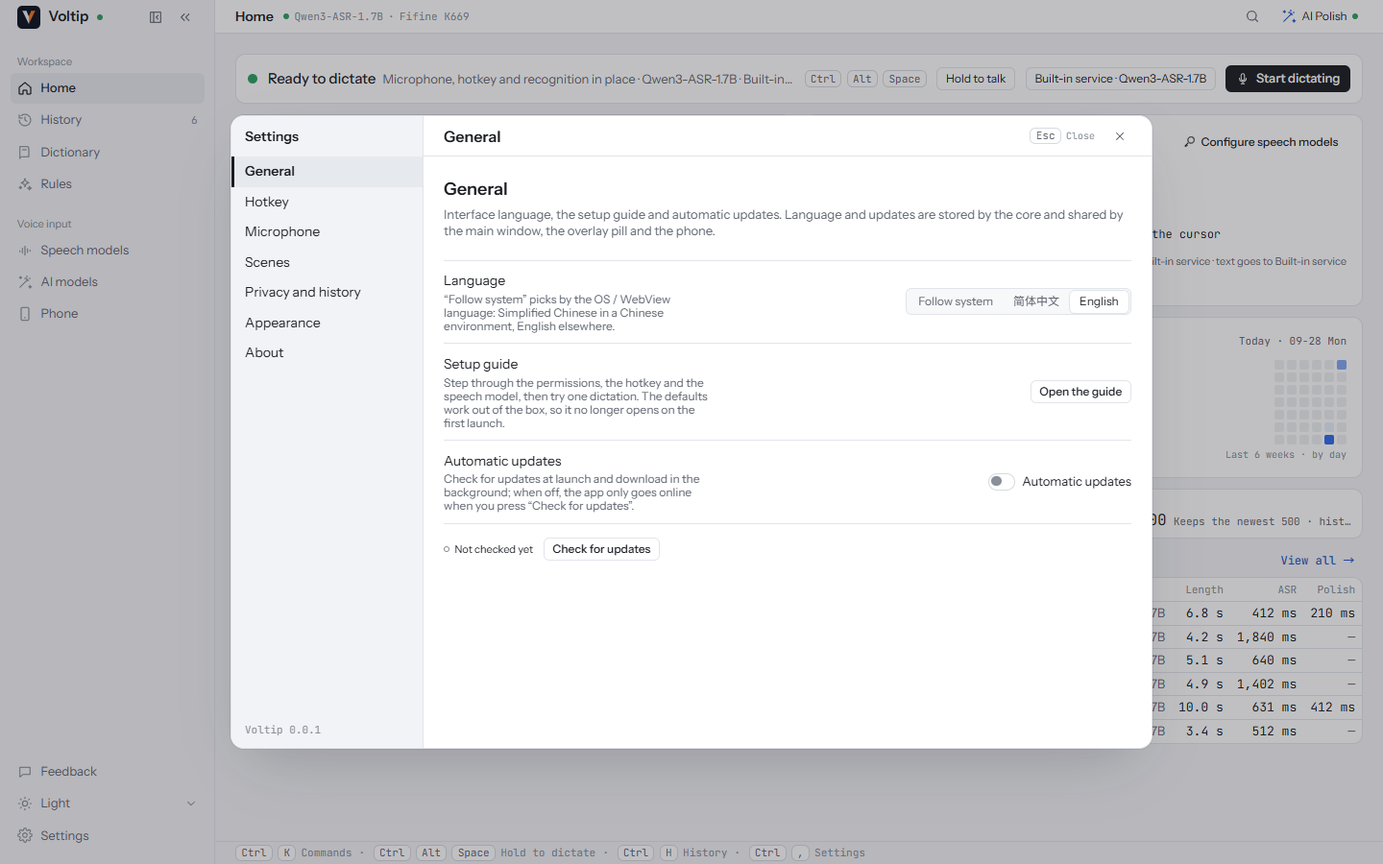
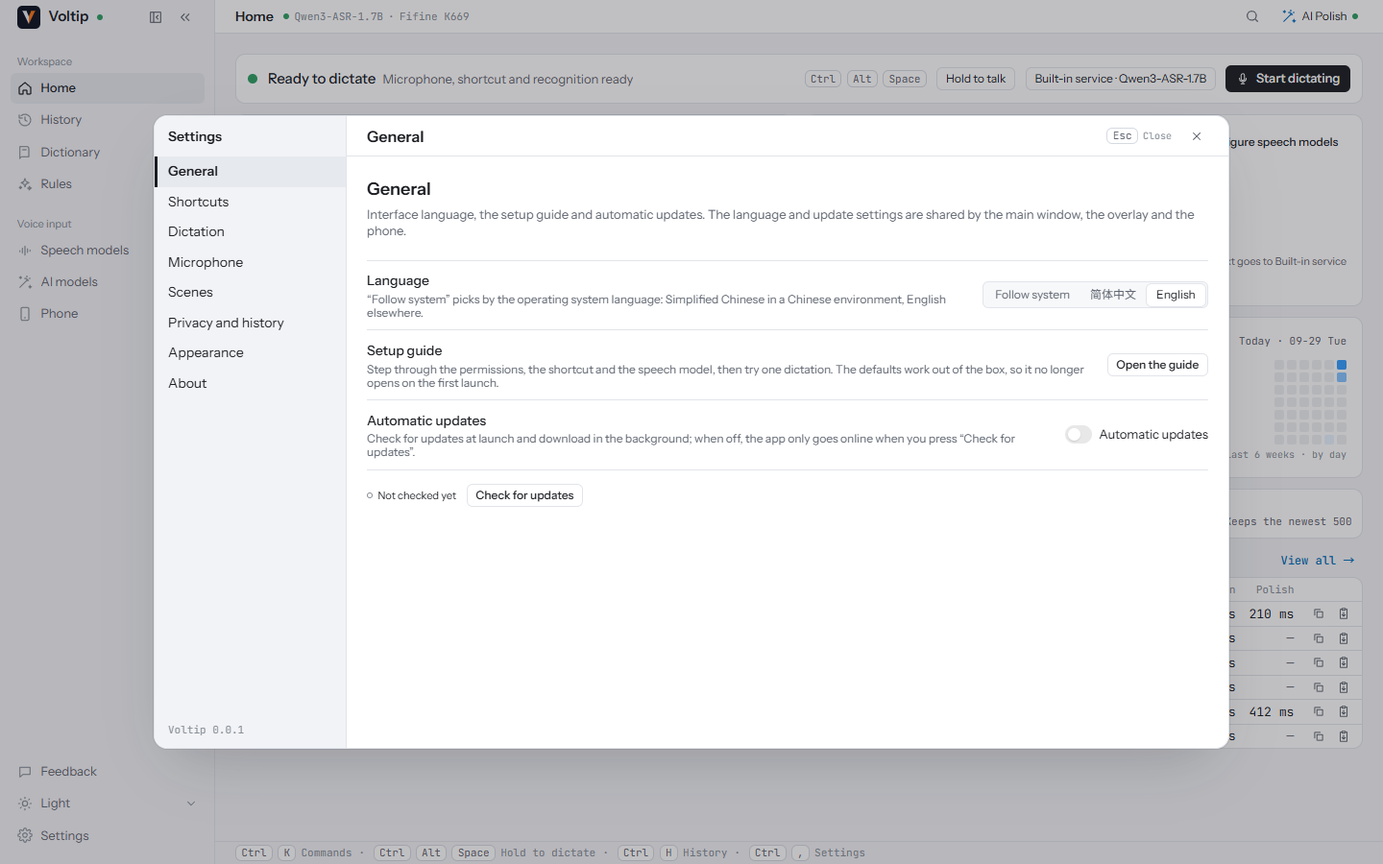
docs: retake the desktop screenshots after the copy and colour changes
All fifteen browser screenshots are taken again at 1440 × 900 (MockBackend),
plus Settings › Dictation, a history entry that stayed on the clipboard,
and one sheet of the four themes with the default and the green accent.

Taking them turned up three small things, fixed here:

- a model card's subtitle ("qwen3-asr-0.6b · transcribe.cpp") and an
  installed model's path were cut with no way to read them; both carry a
  title now;
- the web preview's mock kept 「模型未下载」 on the on-device card after the
  model finished downloading, because it re-reported the engines only
  when readiness changed; the core's rescan re-reports every provider's
  status, and the mock now does the same;
- three Chinese strings were still colloquial (「说说哪里不好用」,
  「换一个范围试试」, 「试试 主题 / …」); the copy guard now bans 说说、试试
  and 看看.

diff --git a/packages/shared/src/mock-backend.test.ts b/packages/shared/src/mock-backend.test.ts
@@ -1144,6 +1144,25 @@ describe("MockBackend local models (docs/dictation.md §10)", () => {
     backend.destroy();
   });
 
+  it("regression: installing the on-device model clears 模型未下载 on its card while the built-in service is in use", async () => {
+    // Screenshot check 2026-09-29: after 均衡 finished downloading, the 本机 card still said
+    // 模型未下载 until something else re-reported the engines.
+    const backend = new MockBackend({ now: () => clock });
+    const localIssue = () =>
+      backend.peek().engines.providers.find((p) => p.id === "local")?.asr?.issue;
+    expect(backend.peek().engines.asr_provider).toBe("builtin");
+    expect(localIssue()).toBe("model_not_installed");
+    const events = collect(backend);
+    const id = backend.peek().models[0]?.id ?? "";
+    await backend.invoke("model_download", { id });
+    for (let n = 0; n <= MOCK_MODEL_TICKS + 1; n += 1) tick(MOCK_MODEL_TICK_MS);
+    expect(backend.peek().models[0]?.state.kind).toBe("installed");
+    expect(localIssue()).toBeUndefined();
+    expect(backend.peek().engines.asr_provider).toBe("builtin");
+    expect(events.filter((e) => e.type === "engines")).toHaveLength(1);
+    backend.destroy();
+  });
+
   it("regression: cancel returns to not_installed, simulateModelFailed keeps the failure until a retry succeeds", async () => {
     const backend = new MockBackend({ now: () => clock });
     const state = () => backend.peek().models[3]?.state;

diff --git a/packages/shared/src/i18n/zh-CN.ts b/packages/shared/src/i18n/zh-CN.ts
@@ -57,7 +57,7 @@ export const zhCN = {
       placeholder: "输入命令或页面…",
       label: "命令菜单",
       noMatch: "没有匹配的命令",
-      tryHint: "试试 主题 / 听写 / 规则",
+      tryHint: "例如：主题 / 听写 / 规则",
       footer: "↑↓ 选择 · ↵ 执行 · Tab 切换分组 · Esc 关闭",
       results: { one: "{n} 条结果", other: "{n} 条结果" },
     },
@@ -524,7 +524,7 @@ export const zhCN = {
       clearSearch: "清除搜索",
       noMatchBody: "已记录的 {n} 条都不匹配。",
       starHint: "在任意一条上点 ★ 收藏。",
-      rangeHint: "换一个范围试试。",
+      rangeHint: "可选择其他时间范围。",
       pick: "从左侧选择一条结果",
       pickHint: "↑ ↓ 切换 · ↵ 打开",
     },
@@ -1788,7 +1788,7 @@ export const zhCN = {
   },
   feedback: {
     title: "反馈",
-    lede: "说说哪里不好用，或者你希望它怎样工作。随反馈附带的信息都列在旁边，发送前就能看到。",
+    lede: "请描述遇到的问题或希望改进的地方。随反馈发送的信息列在右侧，发送前可以查看。",
     formTitle: "反馈内容",
     kindLabel: "类型",
     kind: { bug: "问题", idea: "建议", other: "其他" },

diff --git a/packages/shared/src/mock-backend.ts b/packages/shared/src/mock-backend.ts
@@ -1723,13 +1723,11 @@ export class MockBackend implements Backend {
   private setModelState(id: string, state: ModelInstallState) {
     const models = this.state.models.map((m) => (m.id === id ? { ...m, state } : m));
     this.emit({ type: "models", models });
-    // Readiness follows the install state of the selected model and of the streaming model.
+    // Readiness and the on-device card follow the install state of the selected model and of the
+    // streaming model, whichever provider is in use (the core's rescan re-reports the engines);
+    // progress ticks change neither.
     const engines = this.resolveEngines(this.state.settings.engines);
-    if (
-      engines.local_ready !== this.state.engines.local_ready ||
-      engines.live_preview_ready !== this.state.engines.live_preview_ready ||
-      engines.effective_output_mode !== this.state.engines.effective_output_mode
-    )
+    if (JSON.stringify(engines) !== JSON.stringify(this.state.engines))
       this.emit({ type: "engines", ...engines });
   }
 

diff --git a/packages/ui/src/components/OptionCard.test.tsx b/packages/ui/src/components/OptionCard.test.tsx
@@ -37,6 +37,22 @@ describe("OptionCard", () => {
     expect(title).toHaveAttribute("title", "按一下开始，再按一下结束");
   });
 
+  it("regression: a subtitle cut by a narrow card shows whole on hover", () => {
+    // Screenshot check 2026-09-29: 「qwen3-asr-0.6b · transcribe.cpp」 under 均衡 was cut beside
+    // its 推荐 and 未安装 badges with no way to read it.
+    render(
+      <OptionCard
+        icon="cpu"
+        title="均衡"
+        subtitle="qwen3-asr-0.6b · transcribe.cpp"
+        aria-label="balanced"
+      />,
+    );
+    const subtitle = screen.getByText("qwen3-asr-0.6b · transcribe.cpp");
+    expect(subtitle).toHaveClass("truncate");
+    expect(subtitle).toHaveAttribute("title", "qwen3-asr-0.6b · transcribe.cpp");
+  });
+
   it("an unselected article has no data-selected and a neutral icon tile", () => {
     render(<OptionCard icon="cloud" title="OpenAI" aria-label="openai" />);
     const card = screen.getByRole("article", { name: "openai" });

diff --git a/packages/shared/src/i18n/copy.test.ts b/packages/shared/src/i18n/copy.test.ts
@@ -59,6 +59,8 @@ const ZH_COLLOQUIAL: ReadonlyArray<readonly [RegExp, string]> = [
   [/没能/, "未能 / 无法"],
   [/免得/, "以免"],
   [/搭的|咋|啥/, "（书面说法）"],
+  // Screenshot check 2026-09-29: 「说说哪里不好用」「换一个范围试试」「试试 主题 / …」.
+  [/说说|试试|看看/, "（书面说法：请描述 / 可选择 / 例如）"],
 ];
 const EN_COLLOQUIAL: ReadonlyArray<readonly [RegExp, string]> = [
   // "Just now" is the standard relative-time label.

diff --git a/packages/ui/src/components/OptionCard.tsx b/packages/ui/src/components/OptionCard.tsx
@@ -74,7 +74,11 @@ export function OptionCard({
             {title}
           </div>
           {subtitle !== undefined && (
-            <div className="mono truncate text-[11px] leading-4 text-fg-muted">{subtitle}</div>
+            <div
+              className="mono truncate text-[11px] leading-4 text-fg-muted"
+              title={typeof subtitle === "string" ? subtitle : undefined}>
+              {subtitle}
+            </div>
           )}
         </div>
         {badge !== undefined && (

diff --git a/apps/desktop/src/pages/settings/engines/LocalModels.tsx b/apps/desktop/src/pages/settings/engines/LocalModels.tsx
@@ -225,7 +225,9 @@ export function ModelCard({ model }: ModelCardProps) {
               }),
             })}
           </span>
-          <span className="truncate text-fg-subtle">{model.state.path}</span>
+          <span className="truncate text-fg-subtle" title={model.state.path}>
+            {model.state.path}
+          </span>
         </div>
       )}
     </OptionCard>

diff --git a/docs/acceptance.md b/docs/acceptance.md
@@ -168,7 +168,7 @@
 | 客户端禁用浏览器右键菜单（仅 Tauri 内生效；可编辑控件与 `data-allow-context-menu` 除外） | `apps/desktop/src/app/context-menu.ts`、`apps/desktop/src/main.tsx` | `apps/desktop/src/app/context-menu.test.ts@regression: the Tauri client shows no browser context menu except on editable fields`、`apps/desktop/src/app/context-menu.test.ts@regression: the browser dev preview (enabled: false) keeps its context menu` | [x] |
 | 字体离线打包（Instrument Sans / JetBrains Mono / Noto Sans SC 随包，CSP 无远程源） | `packages/ui/src/tokens.css`、`apps/desktop/index.html`、`apps/desktop/src-tauri/tauri.conf.json` | `apps/desktop/src/offline-assets.test.ts@regression: index.html references no remote stylesheet or font host`、`apps/desktop/src/offline-assets.test.ts@regression: the Tauri CSP grants no remote font or style origin`、`packages/ui/src/theme.test.ts@exposes every role to Tailwind through` | [x] |
 | 表格：单行截断、弹性列均分、固定列封顶；设备表四列 | `packages/ui/src/components/Table.tsx`、`apps/desktop/src/pages/Devices.tsx` | `packages/ui/src/components/Table.test.tsx@regression: cells are single truncated lines`、`apps/desktop/src/pages/Devices.test.tsx@renders the device table with the design` | [x] |
-| 视觉证据：当前 UI 的浏览器截图 | `docs/acceptance/screens/desktop/`（2026-09-28 按侧栏页面化、光标、麦克风、反馈附件等改动后重拍，浏览器 MockBackend，1440×900）：`home-1440-light.png` / `home-1440-dark.png`（首页明亮 / 暗黑：就绪横幅、空闲不开麦的麦克风卡与「测试麦克风」、语音模型卡、手机、今日会话、最近结果）、`home-1440-light-en.png`（英文界面）、`home-local-engine-1440-light.png`（本机模式下的首页与标题栏「本机」）、`dictionary-1440-light.png`（词典：两条词条 + 试一试命中 3 处）、`rules-1440-light.png`（规则：TOML 导入两条后试运行，`pr 128` → `PR #128`、「句号」→「。」）、`speech-models-1440-light.png` / `speech-models-local-1440-light.png`（「语音模型」页：服务商卡片，本机卡片展开后的模型库与已安装状态）、`speech-recognition-1440-light.png`（「识别设置」：识别语言、注入方式、中文字形、实时预览、输出方式）、`ai-models-1440-light.png`（「AI 模型」页）、`settings-general-1440-light.png` / `settings-general-1440-light-en.png`（设置对话框「通用」：语言、设置向导、自动更新，中 / 英）、`settings-microphone-1440-light.png`（「麦克风」组：输入设备与正在进行的 15 秒测试）、`feedback-1440-light.png` / `feedback-1440-light-en.png`（反馈页：已添加截图和录屏） | 浏览器 MockBackend 模式；四主题色板与 `tokens.css` 逐值一致由 `packages/ui/src/theme.test.ts@exposes every role to Tailwind through` 锁定 | [~]（人工查看；真实窗口见下一行） |
+| 视觉证据：当前 UI 的浏览器截图 | `docs/acceptance/screens/desktop/`（2026-09-29 按文案改写、复制与粘贴按钮、设置 › 听写、Codex 蓝与强调色、宽度改动后重拍，浏览器 MockBackend，1440×900）：`home-1440-light.png` / `home-1440-dark.png`（首页明亮 / 暗黑：就绪横幅、空闲不开麦的麦克风卡与「测试麦克风」、语音模型卡、手机、今日听写、最近结果与每行的复制 / 粘贴按钮）、`home-1440-light-en.png`（英文界面，README 用）、`home-local-engine-1440-light.png`（本机模式下的首页与标题栏「本机」）、`dictionary-1440-light.png`（词典：两条词条 + 试一试命中 3 处）、`rules-1440-light.png`（规则：TOML 导入两条后试运行，`pr 128` → `PR #128`、「句号」→「。」）、`speech-models-1440-light.png` / `speech-models-local-1440-light.png`（「语音模型」页：服务商卡片；本机卡片展开后的模型库，下载一个模型后本机卡片显示「就绪」）、`speech-recognition-1440-light.png`（「识别设置」：识别语言、中文字形、实时预览、输出方式、静音裁剪）、`ai-models-1440-light.png`（「AI 模型」页）、`settings-general-1440-light.png` / `settings-general-1440-light-en.png`（设置对话框「通用」：语言、设置向导、自动更新，中 / 英）、`settings-dictation-1440-light.png`（「听写」组：插入方式）、`settings-microphone-1440-light.png`（「麦克风」组：输入设备与正在进行的 15 秒测试）、`history-clipboard-1440-light.png`（历史记录：选中一条已复制到剪贴板的记录，正文下方的提示卡与「技术细节」）、`feedback-1440-light.png` / `feedback-1440-light-en.png`（反馈：已添加截图和录屏）、`accents-1440.png`（四套主题 × 默认与绿色强调色：开关、按钮、链接的颜色，截取首页上部拼成一张） | 浏览器 MockBackend 模式；四主题色板与 `tokens.css` 逐值一致由 `packages/ui/src/theme.test.ts@exposes every role to Tailwind through` 锁定 | [~]（人工查看；真实窗口见下一行） |
 | 真实 Tauri 窗口：桌面壳 + 打包前端 + 真实核心在 WebKitGTK WebView 中运行（Linux，Xvfb 无头） | `scripts/smoke-desktop-linux.sh`（`make smoke-desktop`；CI Linux job 上传 `desktop-linux-smoke` 产物）、`apps/desktop/src-tauri/src/lib.rs`（`VOLTIP_DEV_SECRET_STORE=memory` 仅 debug 构建生效） | `docs/acceptance/screens/tauri/desktop-linux-xvfb.png`（首页）、`docs/acceptance/screens/tauri/desktop-linux-xvfb-devices.png`（手机麦克风页：真实核心的身份 / 空设备表 / 中继「重连中 · 第 N 次」读数）；`apps/desktop/src-tauri/tests/ipc.rs@production_wiring_helpers_are_well_formed`（内存存储开关只在 debug 且显式请求时生效） | [x]（Linux 真机窗口；Windows / macOS / Android 窗口仍 [!]） |
 | 状态折叠：`core_state` 加载 + 事件增量合并 | `packages/ui/src/backend/BackendProvider.tsx` | `packages/ui/src/backend/BackendProvider.test.tsx@loads core_state`、`packages/shared/src/schema.test.ts@patches the matching slice for struct events` | [x] |
 | 麦克风空闲不监听、测试与设备选择（2026-09-28 用户反馈）：首页麦克风卡只在录音中（录音自己的帧）或「测试麦克风」的 15 秒内测强度，空闲时不打开麦克风并写明原因；界面用「强度」替代「电平」；设置对话框新增「麦克风」组，输入设备下拉写 `settings_set_microphone`（`null` = 跟随系统默认）并带测试；核心 `Settings.microphone` 持久化、校验并在下一次录音交给麦克风端口；所选设备未连接时录音与测试都退回系统默认输入，界面标「未连接」；首页「切换麦克风」打开这一组 | `crates/voltip-core/src/{settings,runtime}.rs`、`crates/voltip-core/src/dictation/engine.rs`、`crates/voltip-tauri-bridge/src/lib.rs`、`apps/{desktop,mobile}/src-tauri/src/lib.rs`、`apps/desktop/src-tauri/src/{dictation,audio}.rs`、`packages/shared/src/{schema,mock-backend}.ts`、`packages/shared/src/fixtures/ipc/*.json`、`apps/desktop/src/features/audio/{useAudioMeter,useMicrophoneTest}.ts`、`apps/desktop/src/features/audio/MicrophoneStrength.tsx`、`apps/desktop/src/pages/{Home,settings/Microphone}.tsx` | `apps/desktop/src/pages/Home.test.tsx@regression: the microphone stays closed while idle; 测试麦克风 meters it for 15 s, a take meters its own recording (user feedback 2026-09-28)`、`apps/desktop/src/pages/Home.test.tsx@regression: 切换麦克风 opens 设置 › 麦克风, and an unplugged choice is named as such`、`apps/desktop/src/pages/settings/Microphone.test.tsx@regression: the input device is chosen here and written through settings_set_microphone; 跟随系统默认 writes null (user feedback 2026-09-28)`、`apps/desktop/src/pages/settings/Microphone.test.tsx@测试麦克风 meters the chosen device and closes by itself after 15 s`、`apps/desktop/src/pages/settings/Microphone.test.tsx@regression: an unplugged choice stays chosen, is listed as not connected and says takes use the default`、`apps/desktop/src/features/audio/useAudioMeter.test.tsx@regression: a chosen microphone that is unplugged meters the default input and says so`、`crates/voltip-core/tests/dictation.rs@the_chosen_microphone_reaches_the_recorder_and_persists`、`crates/voltip-core/src/settings.rs@regression_settings_without_a_microphone_follow_the_default_and_a_chosen_one_round_trips`、`apps/desktop/src-tauri/src/dictation.rs@a_chosen_microphone_that_is_gone_falls_back_to_the_default_input`、`crates/voltip-tauri-bridge/tests/contract.rs@commands_fixture_is_the_wire_form_and_parses_into_every_variant` | [x] |
@@ -178,7 +178,7 @@
 | 「引擎」拆为「语音模型」与「AI 模型」（2026-09-27，项目所有者定名）：侧栏新分组「语音输入」（语音模型 / AI 模型 / 手机）；设置对话框两个分组 `speech`（服务商与模型、识别设置）与 `ai`（润色服务商与开关）；`/engines`、`/settings/engine` 进语音模型，`/settings/refine` 进 AI 模型；标题栏读数、首页卡、首次引导、命令菜单同步改名；手机页改名「手机」 | `apps/desktop/src/app/{router.tsx,commands.ts}`、`apps/desktop/src/pages/settings/{SettingsDialog.tsx,engines/EnginesPane.tsx}`、`apps/desktop/src/shell/{ShellSidebar.tsx,page-meta.ts}`、`packages/shared/src/fixtures/settings.ts`、`packages/shared/src/i18n/{zh-CN,en}.ts` | `apps/desktop/src/app/router.test.tsx@maps every path and round-trips`、`apps/desktop/src/app/commands.test.ts@lists themes first with the current one marked, then actions and navigation`、`apps/desktop/src/shell/Shell.test.tsx@renders sidebar, title-bar readouts and footer shortcuts; navigates via the sidebar`、`apps/desktop/src/pages/settings/engines/EnginesPane.test.tsx@regression: the old /settings/refine and /settings/ai deep links land on the AI 模型 page`、`apps/desktop/src/pages/settings/Settings.test.tsx@shows real 语音模型 / AI 模型 / 通用 / 隐私与历史 / 关于 panes without sample footnotes` | [x] |
 | 设置 › 听写（2026-09-29，追加 A）：设置对话框在「快捷键」之后新增「听写」分组（`/settings/dictation`），唯一一处设置插入方式（粘贴到光标处 / 仅复制到剪贴板，写 `settings_set_engines { inject }`，其余字段不变）；「识别设置」里不再出现；首页识别引擎卡的插入方式读数是打开该分组的链接；wire 不变 | `apps/desktop/src/pages/settings/{Dictation,SettingsDialog}.tsx`、`apps/desktop/src/pages/settings/engines/EnginesPane.tsx`、`apps/desktop/src/app/router.tsx`、`packages/shared/src/fixtures/settings.ts`、`apps/desktop/src/pages/Home.tsx` | `apps/desktop/src/pages/settings/Settings.test.tsx@the insert setting writes settings_set_engines { inject } with the rest of the block unchanged`、`apps/desktop/src/pages/settings/engines/EnginesPane.test.tsx@regression: the insert setting lives only in Settings › Dictation, not among the recognition options`、`apps/desktop/src/pages/Home.test.tsx@the engine card's insert readout opens Settings › Dictation`、`apps/desktop/src/shell/Shell.test.tsx@renders sidebar, title-bar readouts and footer shortcuts; navigates via the sidebar` | [x] |
 | 宽度够时一行显示（2026-09-29，追加 B）：`StatusRow` 左栏 `min-w-0 flex-1`（去掉 280 px 上限），控件栏最多占行宽 60 %，长读数在栏内截断；设置对话框 `min(1120px, 100vw − 48px)`，内容区不再限 720 px；快捷键命令、关于页模型来源、首次引导页脚的固定上限去掉，放不下时截断并带 `title`；空状态正文放宽到 640 px；`Select` 用同一网格单元里不可见的全部选项文字撑出最小宽度（不依赖 `field-sizing`），调用方不再传固定宽度；命令面板条目单行、截断时带 `title` | `packages/ui/src/components/{StatusRow,Select,CommandPalette,EmptyState}.tsx`、`apps/desktop/src/pages/settings/{SettingsDialog,Hotkey,Microphone,PrivacyPane,AboutPane}.tsx`、`apps/desktop/src/pages/settings/engines/EnginesPane.tsx`、`apps/desktop/src/pages/Onboarding.tsx` | `packages/ui/src/components/StatusRow.test.tsx@regression: help text is not capped at a fixed width`、`packages/ui/src/components/Select.test.tsx@regression: the chosen label is not clipped by a fixed caller width`、`apps/desktop/src/app/fixed-widths.test.ts@regression: no caller gives a Select a fixed width`、`apps/desktop/src/app/fixed-widths.test.ts@regression: the settings help and readouts have no fixed cap`、`apps/desktop/src/pages/settings/Settings.test.tsx@regression: the settings dialog is fluid` | [x]（浏览器实测见 `docs/acceptance/layout/one-line-2026-09-29.md`） |
-| 文案改写后的溢出检查（2026-09-29，计划 1.2）：1280 / 1440 宽、中英文各跑一遍，主界面各页、设置各分组与设置向导四步没有横向滚动、没有超出窗口或自身框的文字、没有被裁掉又无法悬停看全文的文字；历史列表与详情按 2 : 3 分配；表格可按内容定宽（`fit`，最近在线、连接状态、耗时、权限状态），两行单元格截断时带省略号和 `title`，也可让第二行换行；首页就绪说明不再重复旁边标签里的模型和服务商；设置向导卡片放宽到 640 px | `docs/acceptance/layout/overflow-check.js`、`packages/ui/src/components/Table.tsx`、`apps/desktop/src/pages/{History,Home,Devices,Onboarding}.tsx` | `packages/ui/src/components/Table.test.tsx@regression: a fit column is as wide as its widest line and takes no share of the flexible width`、`packages/ui/src/components/Table.test.tsx@regression: a two-line cell cuts either line with an ellipsis and a title, or wraps the second when asked`、`apps/desktop/src/pages/History.test.tsx@regression: the log grows with the window instead of stopping at 360 px, and a row's model, time and result read whole on hover`、`apps/desktop/src/pages/Home.test.tsx@regression: the ready line leaves the model and the provider to the chip beside it and reads whole on hover`、`apps/desktop/src/pages/Home.test.tsx@regression: the recent table's timing columns are as wide as their headers`、`apps/desktop/src/pages/Devices.test.tsx@regression: last seen and state are as wide as their text, and a cut device name reads whole on hover`、`apps/desktop/src/pages/Onboarding.test.tsx@regression: step 1 keeps the recheck note on one line, sizes the status to its text and wraps a permission's purpose`、`apps/desktop/src/pages/Onboarding.test.tsx@regression: the footer's platform and shortcut method read whole on hover when the footer cuts them` | [x]（浏览器实测见 `docs/acceptance/layout/one-line-2026-09-29.md`「文案改写后的溢出检查」） |
+| 文案改写后的溢出检查（2026-09-29，计划 1.2）：1280 / 1440 宽、中英文各跑一遍，主界面各页、设置各分组与设置向导四步没有横向滚动、没有超出窗口或自身框的文字、没有被裁掉又无法悬停看全文的文字；历史列表与详情按 2 : 3 分配；表格可按内容定宽（`fit`，最近在线、连接状态、耗时、权限状态），两行单元格截断时带省略号和 `title`，也可让第二行换行；首页就绪说明不再重复旁边标签里的模型和服务商；设置向导卡片放宽到 640 px；卡片副标题截断时带 `title`；网页预览的模拟后端在下载本地模型后重新报告各服务商状态（与核心的重新扫描一致） | `docs/acceptance/layout/overflow-check.js`、`packages/ui/src/components/Table.tsx`、`apps/desktop/src/pages/{History,Home,Devices,Onboarding}.tsx` | `packages/ui/src/components/Table.test.tsx@regression: a fit column is as wide as its widest line and takes no share of the flexible width`、`packages/ui/src/components/Table.test.tsx@regression: a two-line cell cuts either line with an ellipsis and a title, or wraps the second when asked`、`apps/desktop/src/pages/History.test.tsx@regression: the log grows with the window instead of stopping at 360 px, and a row's model, time and result read whole on hover`、`apps/desktop/src/pages/Home.test.tsx@regression: the ready line leaves the model and the provider to the chip beside it and reads whole on hover`、`apps/desktop/src/pages/Home.test.tsx@regression: the recent table's timing columns are as wide as their headers`、`apps/desktop/src/pages/Devices.test.tsx@regression: last seen and state are as wide as their text, and a cut device name reads whole on hover`、`apps/desktop/src/pages/Onboarding.test.tsx@regression: step 1 keeps the recheck note on one line, sizes the status to its text and wraps a permission's purpose`、`apps/desktop/src/pages/Onboarding.test.tsx@regression: the footer's platform and shortcut method read whole on hover when the footer cuts them`、`packages/ui/src/components/OptionCard.test.tsx@regression: a subtitle cut by a narrow card shows whole on hover`、`packages/shared/src/mock-backend.test.ts@regression: installing the on-device model clears 模型未下载 on its card while the built-in service is in use` | [x]（浏览器实测见 `docs/acceptance/layout/one-line-2026-09-29.md`「文案改写后的溢出检查」） |
 | Codex 的蓝与强调色选项（2026-09-29，追加 F、G）：明亮、暗黑、石墨的默认强调色为 Codex 桌面应用的 `#339cff`，暖纸保留赭色，`info` 为 Codex 的蓝；设置 › 外观新增「强调色」（默认、蓝、绿、黄、粉、橙、紫、墨色，ChatGPT / Codex 色板，浅色主题浅档、深色主题深档），本机保存并写 `<html data-accent>`，其他窗口经 `storage` 事件跟随；派生色事先算好，文字与悬停色 ≥ 4.5:1、文字压在强调色上 ≥ 4.5:1、焦点框用 `accent-text`；开关照 Codex（强调色轨道、白色滑块）；链接无下划线、悬停换色；设置项标签 14 px 中等字重 | `packages/ui/src/{tokens.css,theme.ts}`、`packages/ui/src/components/{Toggle,Button,Table,StatusRow}.tsx`、`apps/desktop/src/app/appearance.tsx`、`apps/desktop/src/pages/settings/Appearance.tsx` | `packages/ui/src/theme.test.ts@the blue themes default to Codex's #339cff; the warm theme keeps its own accent`、`packages/ui/src/theme.test.ts@every accent choice takes ChatGPT's light value in the light themes and its dark value in the dark ones`、`packages/ui/src/theme.test.ts@text on and around every accent reads in the %s theme`、`packages/ui/src/theme.test.ts@an element that names its own accent is not overridden by the page's`、`apps/desktop/src/app/appearance.test.tsx@the accent is painted on <html>, and a change made in another window is followed`、`apps/desktop/src/pages/settings/Settings.test.tsx@the accent colour is a local choice painted on <html>; each swatch shows its own colour` | [~]（四套主题 × 默认与非蓝强调色的截图随 M1 截图一并更新） |
 | 侧栏功能全部是页面（2026-09-28 用户反馈；同日用户选定「设置」与「反馈」保持对话框）：侧栏的「语音模型」「AI 模型」是主布局里的页面（`/speech`、`/ai`，标题栏显示页名，侧栏高亮对应条目），「设置」与「反馈」是浮在当前页上的对话框（`/settings/*`、`/feedback`，标题栏和侧栏高亮保持下面的页面）；设置对话框只剩通用、热键、场景、隐私与历史、外观、关于；旧链接 `/engines`、`/settings/engine`、`/settings/speech` 进语音模型页，`/settings/refine`、`/settings/ai` 进 AI 模型页；设置或反馈对话框浮在哪个页面上，侧栏就保持哪个条目高亮；反馈对话框左边是表单、右边列出随附的诊断，草稿在关闭后保留、发送成功后清空并提示；命令面板新增「打开反馈」 | `apps/desktop/src/app/{router.tsx,commands.ts}`、`apps/desktop/src/pages/{Models,Feedback}.tsx`、`apps/desktop/src/pages/settings/SettingsDialog.tsx`、`apps/desktop/src/shell/{Shell,ShellSidebar}.tsx`、`apps/desktop/src/shell/page-meta.ts`、`packages/shared/src/fixtures/settings.ts` | `apps/desktop/src/app/router.test.tsx@maps every path and round-trips`、`apps/desktop/src/app/router.test.tsx@regression: /engines opens the 语音模型 page, which becomes the background a settings dialog floats over`、`apps/desktop/src/shell/Shell.test.tsx@renders sidebar, title-bar readouts and footer shortcuts; navigates via the sidebar`、`apps/desktop/src/pages/settings/engines/EnginesPane.test.tsx@regression: /engines and the old settings groups open the 语音模型 page, no dialog`、`apps/desktop/src/pages/settings/engines/EnginesPane.test.tsx@regression: the old /settings/refine and /settings/ai deep links land on the AI 模型 page`、`apps/desktop/src/pages/Feedback.test.tsx@regression: 反馈 opens over the page it came from, shows exactly what goes along, sends the report through the shell and says so`、`apps/desktop/src/shell/page-meta.test.ts@gives the dialog header the hotkey and appearance readouts and nothing for the brief groups`、`apps/desktop/src/app/commands.test.ts@lists themes first with the current one marked, then actions and navigation`、`apps/desktop/src/app/locale.test.tsx@regression: under zh-CN no page shows an ASCII-caps eyebrow or an English gloss after a Chinese title` | [x] |
 | 应用内反馈（2026-09-27，docs/feedback.md；2026-09-28 起为主布局里的页面）：选类型、写描述、可选联系方式，发送前列出随附的诊断（版本、系统与架构、会话、界面语言、识别与润色的服务商 id、本机模型与设备、输出方式；不含主机名、密钥、听写内容）；桌面壳 `feedback_diagnostics` / `feedback_submit` 经 reqwest 发往构建期注入的 `VOLTIP_FEEDBACK_URL`（带 `VOLTIP_FEEDBACK_TOKEN`），错误只带原因名；没有地址的构建改为提供 Issue 页；手机端拒绝；接口为 Cloudflare Worker + D1（令牌、体积与字段校验，每地址每小时 10 条、全体每天 5000 条，地址只存加盐哈希，管理员读回） | `apps/desktop/src-tauri/src/feedback.rs`、`apps/desktop/src/pages/Feedback.tsx`、`packages/shared/src/{schema,backend,tauri-backend,mock-backend}.ts`、`services/feedback/src/{index,validate,store}.ts`、`services/feedback/schema.sql` | `apps/desktop/src/pages/Feedback.test.tsx@regression: 反馈 opens over the page it came from, shows exactly what goes along, sends the report through the shell and says so`、`apps/desktop/src/pages/Feedback.test.tsx@regression: a failed submission says why and keeps what was written`、`apps/desktop/src/pages/Feedback.test.tsx@a build without a feedback address offers the repository's issue page instead`、`apps/desktop/src-tauri/src/feedback.rs@diagnostics_name_the_platform_and_the_provider_kinds_and_nothing_else`、`apps/desktop/src-tauri/src/feedback.rs@every_refusal_has_its_reason`、`apps/desktop/src-tauri/tests/ipc.rs@feedback_commands_show_what_goes_along_and_refuse_without_an_endpoint`、`packages/shared/src/feedback.test.ts@TauriBackend invokes both commands and validates what comes back`、`services/feedback/src/index.test.ts@stores a report with a hashed client address and answers its id`、`services/feedback/src/index.test.ts@limits one client to`（2026-09-27 部署后实测：健康检查 200、无令牌 401、提交 201、管理员读回不含地址哈希） | [x] |
